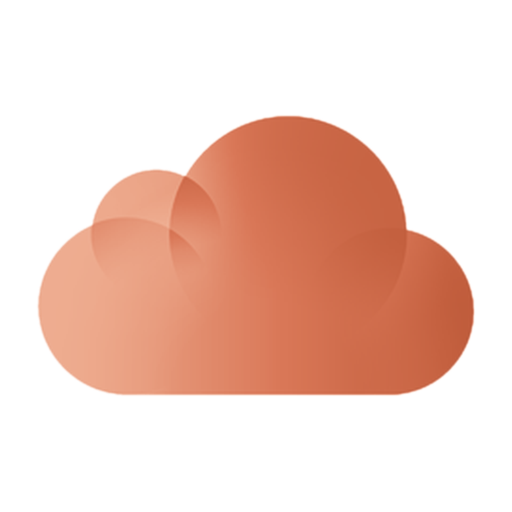
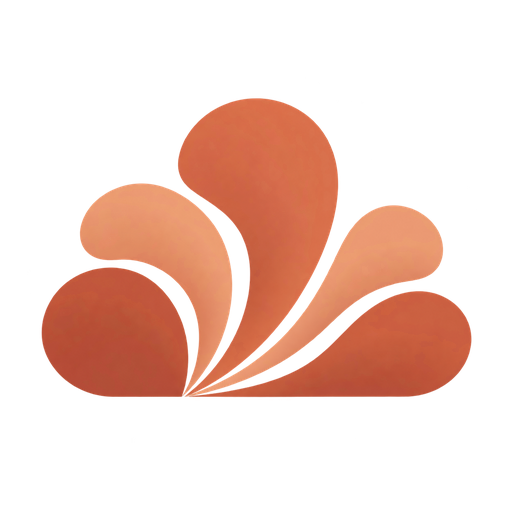
Add original iClaude cloud identity and English social preview (#1)

Changed region(s): [[0.0625, 0.1875, 0.9375, 0.7812]]

diff --git a/assets/README.md b/assets/README.md
@@ -1,0 +1,34 @@
+# iClaude graphics
+
+The current mark is an original, AI-generated project symbol: an abstract cloud composed of five warm terracotta organic forms, with open spaces between them. It was generated with the built-in Codex imagegen tool on 2026-10-09 and inspected on light and dark backgrounds at 16, 32, 64 and 128 px. At 16 px the broad silhouette remains visible; the inner gaps are clearer from 32 px upward.
+
+- `logo.png`: 1024 × 1024, transparent RGBA PNG master for general use.
+- `source/icon-source.png`: the untouched 1254 × 1254 imagegen output.
+- `manifest.json`: asset dimensions, modes, sizes, SHA-256 hashes, typography, exact copy and selection status.
+- `icon.png`: 512 × 512, RGBA PNG with real alpha transparency. Used by both READMEs and copied unchanged into the Desktop Extension as `icon.png` (`manifest.json` already points to it). The package build verifies that the archived icon matches this file byte for byte.
+- `social-preview.png`: 1280 × 640, opaque RGB PNG, under 1 MB. The same icon sits on a warm off-white background; English text was typeset separately so spelling and dimensions are exact. Upload this file in **Settings → General → Social preview → Edit → Upload an image**. Committing it alone does not change GitHub's social preview setting.
+
+Exact social preview text:
+
+```text
+iClaude
+iCloud for Claude Desktop
+Calendar · Contacts · Mail
+Reminders · Notes
+Local MCP extension for macOS
+Independent project · github.com/zoblon/iClaude
+```
+
+The preview uses Georgia Bold for the project name and Arial for supporting copy. These fonts are rasterized in the PNG; no font files are distributed. Background: `#FAF8F3`; text: `#342F28`, `#554C43`, `#766C60`. The icon uses warm terracotta and apricot tones.
+
+## Provenance and trademarks
+
+The earlier cloud graphic (introduced in commit `94e5ab6`) was based on Apple's iCloud logo and recolored in warm orange. It should not be credited as an original iClaude design. That graphic has been replaced in the current assets; older commits and previously published packages still contain it. The repository's MIT license does not grant rights to Apple or Anthropic trademarks or their official logos.
+
+The replacement symbol was generated specifically for this independent project. Its cloud and warm organic forms refer to the connector's purpose; it does not incorporate the official Apple iCloud or Anthropic Claude mark. Current project graphics are distributed under the repository's [MIT license](../LICENSE). This is an asset provenance statement, not a claim of trademark registration or legal clearance.
+
+iClaude is not affiliated with, endorsed by or sponsored by Apple or Anthropic. iCloud is a trademark of Apple Inc.; Claude is a trademark of Anthropic PBC.
+
+## Generation prompt
+
+Use case: logo-brand. Asset type: original iClaude app icon / repository mark, single transparent square PNG, 1024x1024 or larger. Create a distinctive cloud made from five to seven thick, organically curved terracotta fronds that fan upward and outward from an off-center lower junction, like a warm cloud unfurling. The collective outer silhouette must read clearly as a cloud with one taller central crown and two lower side lobes, a compact broad base. Each frond is an irregular chunky curved taper, broad at its round outer tip, with spacious clean transparent wedge-shaped gaps between some fronds. Combine the idea of cloud connectivity and warm radiating organic energy through your own original geometry. Aim for a restrained, sophisticated contemporary software mark; asymmetrical but balanced, exceptionally legible at 32px. Warm burnt terracotta #D97757, rust #B9553D and muted apricot #E8A181. Subtle tonal transitions may add dimension but predominantly bold solid color, crisp silhouette and smooth clean edges. No hairlines, tiny detached pieces, outlines, enclosing tile or cast shadows. Center full mark with generous transparent margins ~12% on every side. No text or letters. Must be independently designed: do not recreate Apple's iCloud silhouette with overlapping translucent circles, do not reproduce Anthropic's Claude starburst, do not use the OpenAI knot, do not make interlaced ribbon loops. No official brand logos. Real alpha transparency outside and between the forms, never painted checkerboard. The design is a single finished symbol, no variants, no sheet, no mockup.

diff --git a/README.de.md b/README.de.md
@@ -1,6 +1,6 @@
 [English](README.md)
 
-<p align="center"><img src="assets/icon.png" width="140" alt="iClaude-Logo: Wolke in Claude-Orange"></p>
+<p align="center"><img src="assets/icon.png" width="140" alt="iClaude-Logo: eigenständige Terrakottawolke aus organischen Fächerformen"></p>
 
 # iClaude: iCloud-Konnektor für Claude Desktop
 
@@ -250,3 +250,5 @@ Die Entwicklerdokumentation ist auf Englisch. Aufbau, Sicherheitsregeln und beka
 MIT-Lizenz, siehe [`LICENSE`](LICENSE). Nutzung auf eigene Verantwortung.
 
 iClaude ist ein unabhängiges Projekt. Es steht in keiner Verbindung zu Apple oder Anthropic und wird von keinem der beiden unterstützt. iCloud ist eine Marke von Apple Inc., Claude eine Marke von Anthropic PBC.
+
+Projektgrafiken: [PNG-Logo](assets/logo.png), [transparentes PNG-Icon](assets/icon.png) und [englische GitHub Social Preview](assets/social-preview.png). Das aktuelle Zeichen wurde eigens für iClaude generiert; es verwendet weder das iCloud-Logo von Apple noch das Claude-Logo von Anthropic. Herkunft des früheren Icons und Exportdetails: [Grafikhinweise](assets/README.md).

diff --git a/README.md b/README.md
@@ -1,4 +1,4 @@
-<p align="center"><img src="assets/icon.png" width="140" alt="iClaude logo: a cloud in Claude orange"></p>
+<p align="center"><img src="assets/icon.png" width="140" alt="iClaude logo: an original terracotta cloud with organic radiating forms"></p>
 
 # iClaude: iCloud connector for Claude Desktop
 
@@ -250,3 +250,5 @@ Architecture, safety rules and known pitfalls: [`docs/DEVELOPMENT.md`](docs/DEVE
 MIT License, see [`LICENSE`](LICENSE). Use at your own risk.
 
 iClaude is an independent project. It is not affiliated with, endorsed by or sponsored by Apple or Anthropic. iCloud is a trademark of Apple Inc., Claude is a trademark of Anthropic PBC.
+
+Project graphics: [PNG logo](assets/logo.png), [transparent PNG icon](assets/icon.png) and [English GitHub social preview](assets/social-preview.png). The current mark was generated specifically for iClaude; it does not reuse the Apple iCloud or Anthropic Claude logo. See [asset provenance](assets/README.md) for the earlier icon’s attribution and export details.
